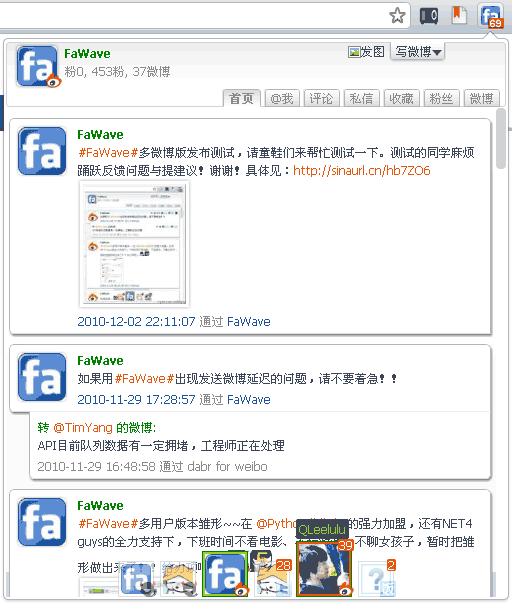
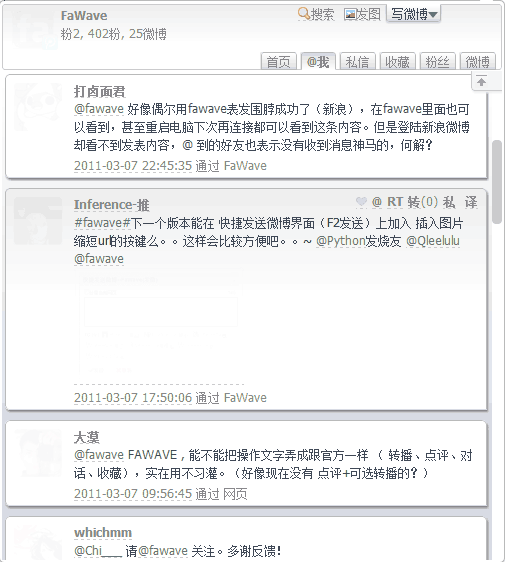
work主题

diff --git a/themes/work/css/theme.css b/themes/work/css/theme.css
@@ -1,5 +1,5 @@
 a{ color:#888; border-bottom:1px dashed #ccc;}
-#header .user .face{opacity: 0.05;}
+#header .user .face{opacity: 0.03;}
 #header .user .face:hover{-webkit-transition: opacity 0.5s ease; opacity: 1;}
 #header .user .info .name{color:#888;}
 
@@ -7,7 +7,7 @@ a{ color:#888; border-bottom:1px dashed #ccc;}
 /* .unreadcount{color:yellow;} */
 
 div.usericon {
-	float:left; margin:2px 0 0 5px; opacity: 0.05; 
+	float:left; margin:2px 0 0 5px; opacity: 0.03; 
 }
 div.usericon:hover{opacity: 1; background:none;-webkit-box-shadow:0 0 5px #aaa;}
 div.usericon img {
@@ -24,15 +24,15 @@ div.mainContent {
 	word-wrap:break-word;
 }
 .pic{
-	opacity: 0.05;
+	opacity: 0.03;
 	padding: 3px;
 	margin:2px;
 	-webkit-box-shadow: #AAA 0px 0px 5px;
 	background:#fff;
 }
 .pic:hover{-webkit-transition: opacity 0.5s ease; opacity: 1;}
-div.userName {font-weight:bold;} 
-div.userName a {color:#333;}
+div.userName {font-weight:bold;}
+div.userName img{opacity: 0.3;}
 .msgInfo {color:#888;}
 div.msgInfo {padding-top:3px;}
 .list li{
